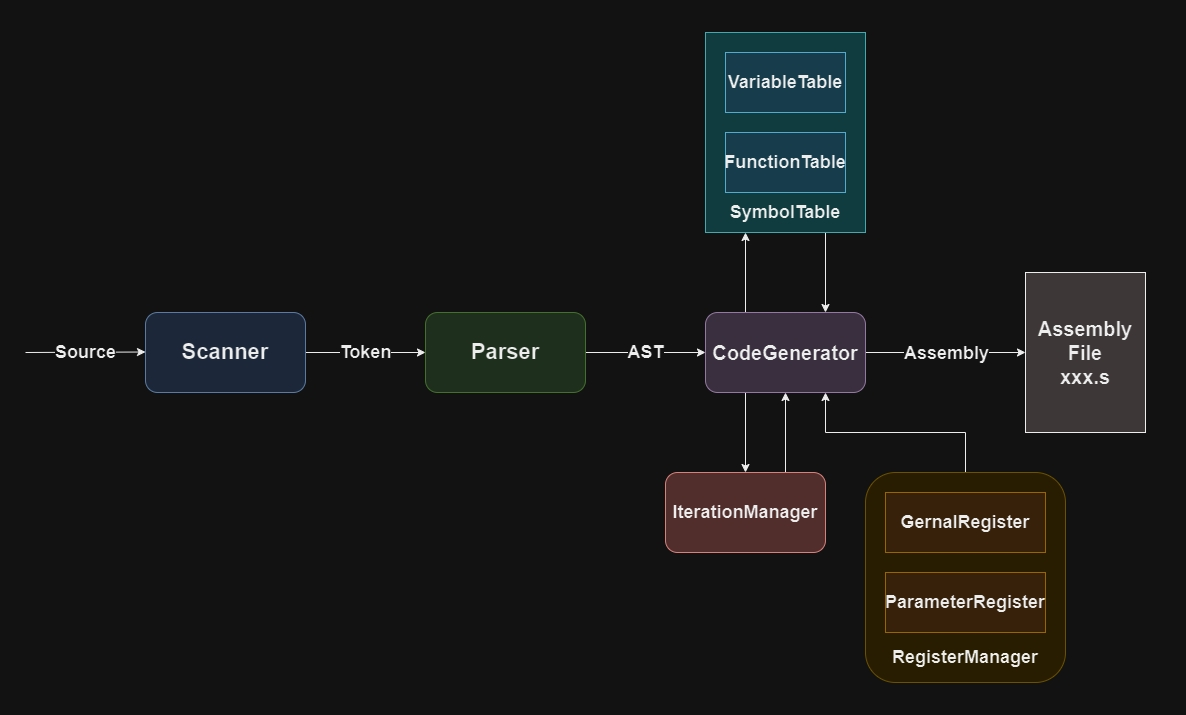
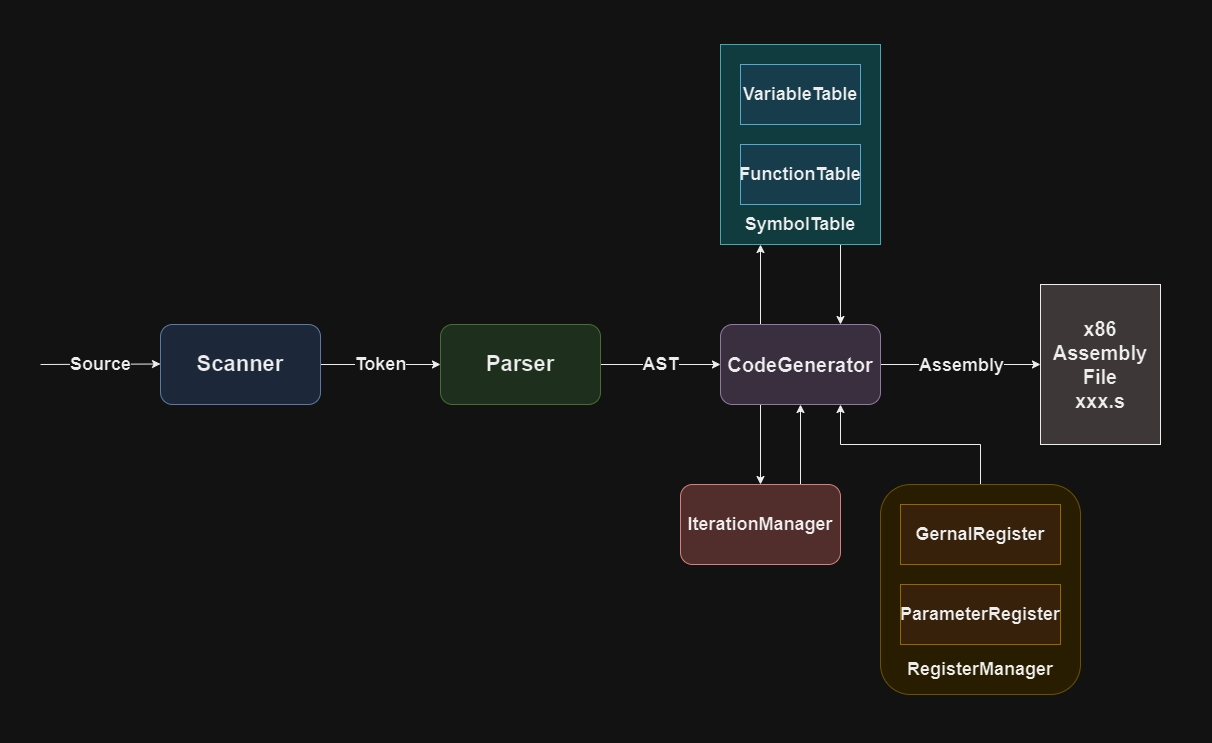
Modify Readme

diff --git a/README.md b/README.md
@@ -18,7 +18,7 @@ bash install.sh
 
 **Note:**
 
-PJDCC can compile code to assembly. I borrow nasm to assembly, gcc's ld to link. So I will install nasm and gcc for you at first.
+PJDCC can compile code to x86 assembly. I borrow nasm to assembly, gcc's ld to link. So I will install nasm and gcc for you at first.
 
 ### I have write some examples in "example" directory
 
@@ -54,7 +54,7 @@ You don't need to input out_file's name.
 
 If you pjdcc [-E] xxx.c, I will generate the executable file named xxx.
 
-If you pjdcc -S xxx.c, I will generate the assembly file named xxx.s.
+If you pjdcc -S xxx.c, I will generate the x86 assembly file named xxx.s.
 
 ## Support
 
